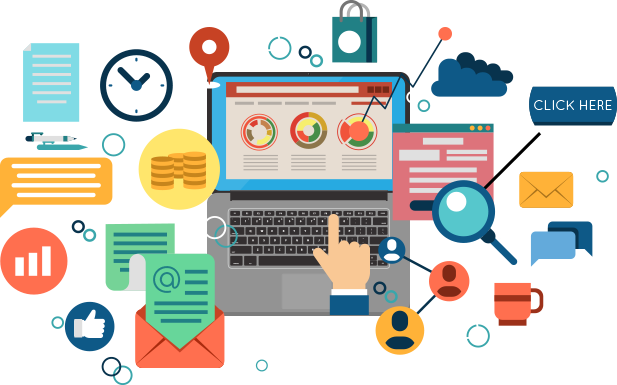
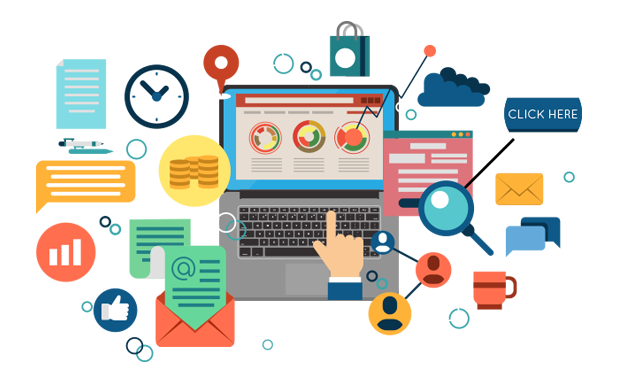
Cleaned up images

diff --git a/content/project/customer-segmentation/index.html b/content/project/customer-segmentation/index.html
@@ -59,7 +59,7 @@ image: customer-segment.png
             <div class="col-lg-12">
                 <div class="row justify-content-lg-between align-items-lg-center py-4 py-lg-5">
                     <div class="col-lg-6 mb-4 mb-lg-0">
-                        <img src="data-infographic-1.png" class="img-fluid img-thumbnail" alt="">
+                        <img src="data-infographic.png" class="img-fluid img-thumbnail" alt="">
                     </div>
                     <div class="col-lg-5">
                         <h2 class="h3">The Problem</h2>
